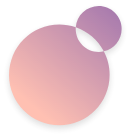
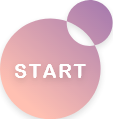
splash

Changed region(s): [[0.0, 0.0, 1.0, 1.0], [0.3717, 0.5294, 0.7699, 0.6555], [0.1327, 0.5294, 0.3717, 0.6555]]

diff --git a/public/index.html b/public/index.html
@@ -1,28 +1,32 @@
 <!DOCTYPE html>
 <html lang="en">
   <head>
-    <meta charset="utf-8" />
+    <!-- <meta charset="utf-8" />
     <link rel="shortcut icon" href="%PUBLIC_URL%/favicon.ico" />
     <meta
       name="viewport"
       content="width=device-width, initial-scale=1, shrink-to-fit=no"
     />
     <meta name="theme-color" content="#000000" />
-    <!--
-      manifest.json provides metadata used when your web app is added to the
-      homescreen on Android. See https://developers.google.com/web/fundamentals/web-app-manifest/
-    -->
-    <link rel="manifest" href="%PUBLIC_URL%/manifest.json" />
-    <!--
-      Notice the use of %PUBLIC_URL% in the tags above.
-      It will be replaced with the URL of the `public` folder during the build.
-      Only files inside the `public` folder can be referenced from the HTML.
+    <link rel="manifest" href="%PUBLIC_URL%/manifest.json" /> -->
+    <title>Page Title</title>
+    <link rel="stylesheet" type="text/css" href="newpost.css">
 
-      Unlike "/favicon.ico" or "favicon.ico", "%PUBLIC_URL%/favicon.ico" will
-      work correctly both with client-side routing and a non-root public URL.
-      Learn how to configure a non-root public URL by running `npm run build`.
-    -->
-    <title>React App</title>
+    <link rel="stylesheet" href="https://maxcdn.bootstrapcdn.com/bootstrap/3.3.2/css/bootstrap.min.css">
+    <script src="https://use.fontawesome.com/releases/v5.2.0/js/all.js"></script>
+    
+    <link rel="stylesheet" href="//cdn.rawgit.com/hiun/NanumSquare/master/nanumsquare.css">
+    <link href="https://fonts.googleapis.com/css?family=Nanum+Gothic&amp;subset=korean" rel="stylesheet">
+    <link href="https://fonts.googleapis.com/css?family=Noto+Sans+KR&amp;subset=korean" rel="stylesheet">
+    
+    <style>
+    p, div, li, input {
+        /*font-family: 'Nanum Square';   
+        font-family: 'Nanum Gothic', sans-serif;*/
+        font-family: 'Noto Sans KR', sans-serif;
+    }
+    </style>
+    
   </head>
   <body>
     <noscript>You need to enable JavaScript to run this app.</noscript>

diff --git a/public/splash.html b/public/splash.html
@@ -16,12 +16,12 @@
         /*font-family: 'Nanum Square';   
         font-family: 'Nanum Gothic', sans-serif;*/
         font-family: 'Noto Sans KR', sans-serif;
-    }
+    }   
     </style>
 
 </head>
-<body>
-    <img src="../background/bg_splash@2x.png" class="splash_background">
+<body class="splash_background">
+    <!-- <img src="../background/bg_splash@2x.png" class="splash_background"> -->
     <div class="banner">
         <div style="width:1280px; height:100%; margin:0 auto;text-align:center;position: relative;">
             <ul style="display:inline-block">
@@ -38,8 +38,12 @@
     </div>
     
     <div style="width:1280px; height:100%; margin:0 auto;text-align:center;">
-    
-    
+    <div style="margin-top:170px;">
+        <img src="../icon/splash_logo3@2x.png" style="width:200px">
+    </div>
+    <div style="text-align:right; margin-top:130px; margin-right:40px;">
+        <a href="#"><img src="../icon/bt_start.png" width=100px></a>
+    </div>
     </div>    
 </body>
 </html>

diff --git a/public/splash.css b/public/splash.css
@@ -6,13 +6,18 @@ html,body,table,tr,td {
       outline: none; 
   }
   
-  img.splash_background{
-      width:101%;
+  .splash_background{
+      /* width:101%;
       top:-35px;
       left:0;
       margin:0;
       overflow: auto;
-      position: fixed;
+      position: fixed; */
+      background-image:url("../background/bg_splash.png"); 
+      -webkit-background-size: cover;
+      -moz-background-size: cover;
+      -o-background-size: cover;
+      background-size: cover;
   }
   
   ul {
